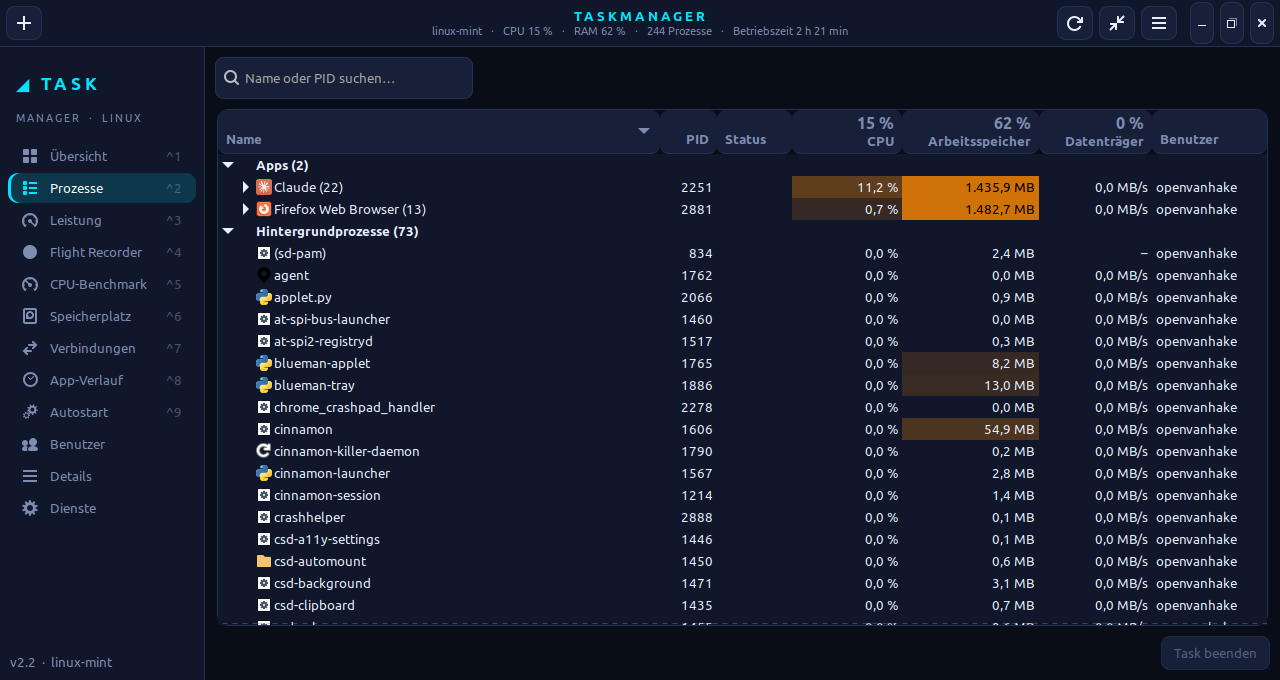
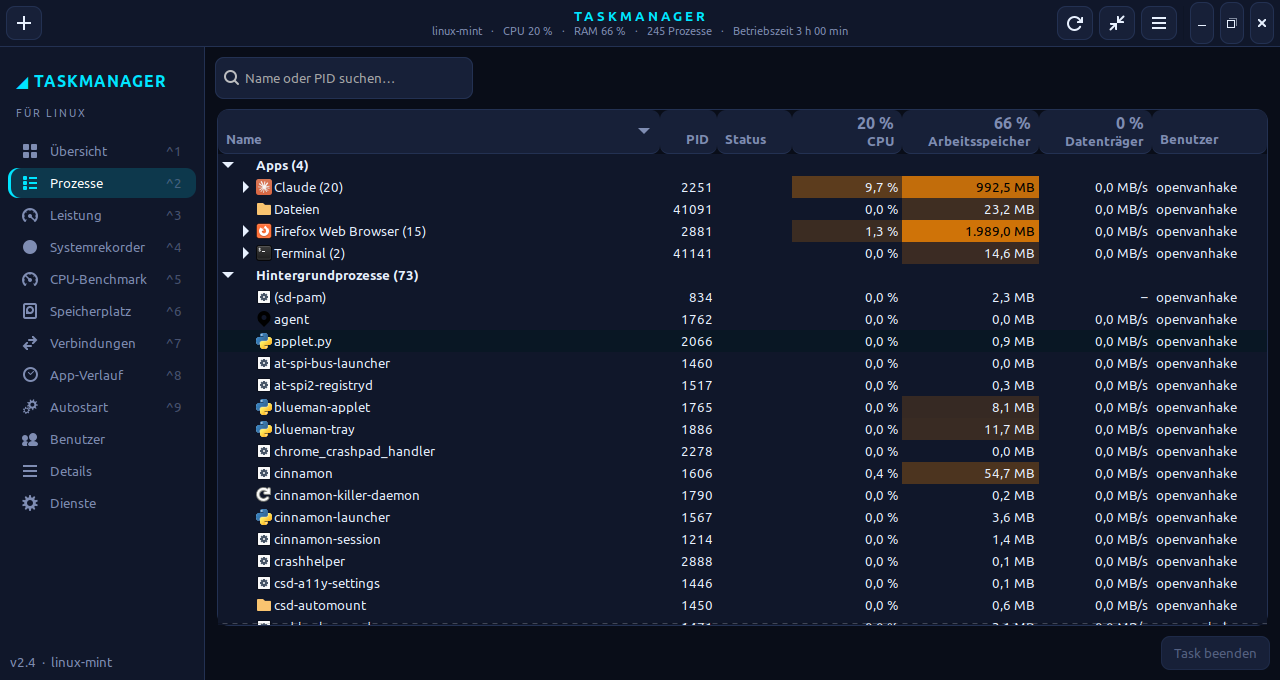
Umbenennung „Flight Recorder“ → „Systemrekorder“ (Version 2.4)
- Seite, Kopfleiste, Menü, Autostart-Eintrag, CSV-Dateiname: „Systemrekorder“ / „System Recorder“
- intern: Seite „sysrec“, Modul tabs/systemrecorder.py, Datenbank systemrecorder.db
- vorhandene flight.db wird beim ersten Start automatisch übernommen; alte Seiteneinstellung wird erkannt
- Fix: „database is locked“ beim allerersten Öffnen der Datenbank (Wiederholversuch)
- README, Anforderungen, Umsetzungsplan und alle Screenshots aktualisiert

diff --git a/taskmanager/recorder.py b/taskmanager/recorder.py
@@ -1,4 +1,4 @@
-"""Flight Recorder: zeichnet Systemzustand und Top-Prozesse in SQLite auf.
+"""Systemrekorder: zeichnet Systemzustand und Top-Prozesse in SQLite auf.
 
 - Systemwerte bei jeder Messung, Top-Prozesse (gemittelt) alle 5 Sekunden
 - erkennt Ereignisse (CPU-Spitzen, Speicher knapp, Hitze, Netzteil …)
@@ -19,7 +19,8 @@ import time
 from . import util
 from .settings import DATA_DIR
 
-DB_PATH = os.path.join(DATA_DIR, "flight.db")
+DB_PATH = os.path.join(DATA_DIR, "systemrecorder.db")
+OLD_DB_PATH = os.path.join(DATA_DIR, "flight.db")  # Name bis Version 2.3
 LOCK_PATH = os.path.join(DATA_DIR, "recorder.lock")
 PROC_EVERY = 5.0  # Sekunden zwischen Prozess-Schnappschüssen
 TOP_N = 10
@@ -46,18 +47,49 @@ SAMPLE_COLS = ["ts", "cpu", "mem", "swap", "disk_r", "disk_w", "disk_act", "net_
 RETENTIONS = [(_("1 Stunde"), 1), (_("6 Stunden"), 6), (_("24 Stunden"), 24), (_("3 Tage"), 72), (_("7 Tage"), 168)]
 
 
+def migrate_old_db():
+    """Aufzeichnung aus „flight.db“ (bis Version 2.3) übernehmen.
+
+    Nur aufrufen, solange dieser Prozess die Schreibsperre hält – dann schreibt
+    kein anderer Prozess in die alte Datei.
+    """
+    if os.path.exists(DB_PATH) or not os.path.exists(OLD_DB_PATH):
+        return
+    for suffix in ("", "-wal", "-shm"):
+        try:
+            os.rename(OLD_DB_PATH + suffix, DB_PATH + suffix)
+        except FileNotFoundError:
+            pass
+
+
+def db_path():
+    """Neue Datei, solange die alte noch nicht übernommen wurde notfalls die alte."""
+    if not os.path.exists(DB_PATH) and os.path.exists(OLD_DB_PATH):
+        return OLD_DB_PATH
+    return DB_PATH
+
+
 def connect():
     os.makedirs(DATA_DIR, exist_ok=True)
-    con = sqlite3.connect(DB_PATH, timeout=10)
-    con.execute("PRAGMA journal_mode=WAL")
-    con.execute("PRAGMA synchronous=NORMAL")
-    con.executescript(SCHEMA)
+    con = sqlite3.connect(db_path(), timeout=10)
+    # Beim ersten Öffnen (Umstellung auf WAL, Tabellen anlegen) kann ein zweiter Prozess
+    # oder Thread die Datei kurz sperren – dann kurz warten und erneut versuchen.
+    for attempt in range(50):
+        try:
+            con.execute("PRAGMA journal_mode=WAL")
+            con.execute("PRAGMA synchronous=NORMAL")
+            con.executescript(SCHEMA)
+            return con
+        except sqlite3.OperationalError as e:
+            if "locked" not in str(e) or attempt == 49:
+                raise
+            time.sleep(0.1)
     return con
 
 
 class _Writer(threading.Thread):
     def __init__(self):
-        super().__init__(daemon=True, name="flight-writer")
+        super().__init__(daemon=True, name="recorder-writer")
         self.q = queue.Queue()
 
     def run(self):
@@ -130,6 +162,7 @@ class Recorder:
         os.write(fd, f"{os.getpid()} {self.role}\n".encode())
         self._lock_fd = fd
         self.active = True
+        migrate_old_db()
         self._writer = _Writer()
         self._writer.start()
         self.event("info", "start", _("Aufzeichnung gestartet") +
@@ -373,7 +406,7 @@ class Reader:
         total = 0
         for suffix in ("", "-wal", "-shm"):
             try:
-                total += os.path.getsize(DB_PATH + suffix)
+                total += os.path.getsize(db_path() + suffix)
             except OSError:
                 pass
         return total
@@ -393,7 +426,7 @@ def run_daemon():
     settings = Settings()
     rec = Recorder(settings, role="daemon")
     if not rec.active:
-        print("Flight Recorder: Es zeichnet bereits ein anderer Prozess auf – warte im Hintergrund.")
+        print("Systemrekorder: Es zeichnet bereits ein anderer Prozess auf – warte im Hintergrund.")
     loop = GLib.MainLoop()
 
     def on_snap(snap):

diff --git a/taskmanager/tabs/systemrecorder.py b/taskmanager/tabs/systemrecorder.py
@@ -1,4 +1,4 @@
-"""Seite „Flight Recorder“: aufgezeichnete Systemdaten zurückspulen und abspielen."""
+"""Seite „Systemrekorder“: aufgezeichnete Systemdaten zurückspulen und abspielen."""
 
 from ..i18n import _
 
@@ -302,8 +302,8 @@ class Timeline(Gtk.DrawingArea):
         return True
 
 
-class FlightTab(Tab):
-    title = _("Flight Recorder")
+class SystemRecorderTab(Tab):
+    title = _("Systemrekorder")
 
     def __init__(self, app):
         super().__init__(app)
@@ -320,7 +320,7 @@ class FlightTab(Tab):
 
         # Kopfzeile
         head = Gtk.Box(spacing=12)
-        head.pack_start(styled_label(_("Flight Recorder"), "tm-h1"), False, False, 0)
+        head.pack_start(styled_label(_("Systemrekorder"), "tm-h1"), False, False, 0)
         self.rec_chip = styled_label("", "tm-chip")
         head.pack_start(self.rec_chip, False, False, 0)
         self.rec_switch = Gtk.Switch(active=self.app.settings.get("fr_enabled", True))
@@ -554,7 +554,7 @@ class FlightTab(Tab):
             tl.data = self.reader.buckets(tl.t0, tl.t1, n)
             tl.events = self.reader.events(tl.t0, tl.t1)
         except Exception as e:  # z. B. Datenbank gesperrt
-            print("Flight Recorder:", e)
+            print("Systemrekorder:", e)
             return
         tl.n = n
         tl.queue_draw()
@@ -787,7 +787,7 @@ class FlightTab(Tab):
             os.makedirs(os.path.dirname(AUTOSTART), exist_ok=True)
             exe = os.path.join(PROJECT_DIR, "taskmanager.sh")
             with open(AUTOSTART, "w") as f:
-                f.write(_('[Desktop Entry]\nType=Application\nName=Taskmanager Flight Recorder\nComment=Zeichnet Systemdaten für den Flight Recorder im Hintergrund auf\nExec="{0}" --recorder\nIcon=media-record\nTerminal=false\nNoDisplay=false\nX-GNOME-Autostart-enabled=true\nX-GNOME-Autostart-Delay=10\n').format(exe))
+                f.write(_('[Desktop Entry]\nType=Application\nName=Taskmanager Systemrekorder\nComment=Zeichnet Systemdaten für den Systemrekorder im Hintergrund auf\nExec="{0}" --recorder\nIcon=media-record\nTerminal=false\nNoDisplay=false\nX-GNOME-Autostart-enabled=true\nX-GNOME-Autostart-Delay=10\n').format(exe))
             # gleich starten – übernimmt die Aufzeichnung, sobald dieses Fenster geschlossen wird
             subprocess.Popen([sys.executable, "-m", "taskmanager", "--recorder"], cwd=PROJECT_DIR,
                              stdout=subprocess.DEVNULL, stderr=subprocess.DEVNULL, start_new_session=True)
@@ -822,7 +822,7 @@ class FlightTab(Tab):
     def _export(self):
         fc = Gtk.FileChooserNative.new(_("Zeitraum als CSV exportieren"), self.app.window,
                                        Gtk.FileChooserAction.SAVE, _("Exportieren"), None)
-        fc.set_current_name(time.strftime("flight-recorder-%Y%m%d-%H%M.csv"))
+        fc.set_current_name(time.strftime("systemrekorder-%Y%m%d-%H%M.csv"))
         fc.set_do_overwrite_confirmation(True)
         if fc.run() == Gtk.ResponseType.ACCEPT:
             try:

diff --git a/taskmanager/app.py b/taskmanager/app.py
@@ -17,7 +17,7 @@ from .tabs.connections import ConnectionsTab
 from .recorder import Recorder
 from .tabs.benchmark import BenchmarkTab
 from .tabs.details import DetailsTab
-from .tabs.flight import FlightTab
+from .tabs.systemrecorder import SystemRecorderTab
 from .tabs.overview import OverviewTab
 from .tabs.performance import PerformanceTab
 from .tabs.processes import ProcessesTab
@@ -29,7 +29,7 @@ from .widgets import styled_label
 
 # per Umgebungsvariable änderbar (z. B. für Tests neben einer laufenden Instanz)
 APP_ID = os.environ.get("TASKMANAGER_APP_ID", "de.local.LinuxTaskmanager")
-VERSION = "2.3"
+VERSION = "2.4"
 SPEEDS = [(_("Hoch"), 0.5), (_("Normal"), 1.0), (_("Niedrig"), 4.0)]
 
 # (Name, Klasse, Titel, Symbol)
@@ -37,7 +37,7 @@ PAGES = [
     ("overview", OverviewTab, _("Übersicht"), "view-grid-symbolic"),
     ("processes", ProcessesTab, _("Prozesse"), "view-list-symbolic"),
     ("performance", PerformanceTab, _("Leistung"), "power-profile-performance-symbolic"),
-    ("flight", FlightTab, _("Flight Recorder"), "media-record-symbolic"),
+    ("sysrec", SystemRecorderTab, _("Systemrekorder"), "media-record-symbolic"),
     ("benchmark", BenchmarkTab, _("CPU-Benchmark"), "speedometer-symbolic"),
     ("storage", StorageTab, _("Speicherplatz"), "drive-harddisk-symbolic"),
     ("connections", ConnectionsTab, _("Verbindungen"), "network-transmit-receive-symbolic"),
@@ -127,8 +127,8 @@ class TaskManager(Gtk.Application):
         self.rec_chip = Gtk.Button(label=_("● REC"))
         self.rec_chip.set_relief(Gtk.ReliefStyle.NONE)
         self.rec_chip.get_style_context().add_class("tm-rec")
-        self.rec_chip.set_tooltip_text(_("Flight Recorder zeichnet auf – klicken zum Öffnen"))
-        self.rec_chip.connect("clicked", lambda *_xx: self.show_page("flight"))
+        self.rec_chip.set_tooltip_text(_("Systemrekorder zeichnet auf – klicken zum Öffnen"))
+        self.rec_chip.connect("clicked", lambda *_xx: self.show_page("sysrec"))
         self.rec_chip.set_no_show_all(True)
         hb.pack_start(self.rec_chip)
         self.paused_chip = styled_label(_("⏸ ANGEHALTEN"), "tm-chip")
@@ -192,7 +192,8 @@ class TaskManager(Gtk.Application):
         win.show_all()
 
         self.current_name = None
-        start = s["page"] if s["page"] in self.tabs else "overview"
+        page = {"flight": "sysrec"}.get(s["page"], s["page"])  # alter Seitenname
+        start = page if page in self.tabs else "overview"
         self.nav.select_row(self.nav_rows[start])
         self._update_paused()
         theme.on_change(self._on_theme_changed)

diff --git a/taskmanager/locale_en.py b/taskmanager/locale_en.py
@@ -74,7 +74,7 @@ EN = {
     "Übersicht": "Overview",
     "Prozesse": "Processes",
     "Leistung": "Performance",
-    "Flight Recorder": "Flight Recorder",
+    "Systemrekorder": "System Recorder",
     "CPU-Benchmark": "CPU Benchmark",
     "Speicherplatz": "Disk Space",
     "Verbindungen": "Connections",
@@ -96,7 +96,7 @@ EN = {
     "Jetzt aktualisieren (F5)": "Refresh now (F5)",
     "Neuen Task ausführen (Strg+N)": "Run new task (Ctrl+N)",
     "● REC": "● REC",
-    "Flight Recorder zeichnet auf – klicken zum Öffnen": "Flight Recorder is recording – click to open",
+    "Systemrekorder zeichnet auf – klicken zum Öffnen": "System Recorder is recording – click to open",
     "⏸ ANGEHALTEN": "⏸ PAUSED",
     "_Neuen Task ausführen…": "_Run new task…",
     "_Mini-Modus": "_Mini mode",
@@ -357,7 +357,7 @@ EN = {
     "Virtuell": "Virtual",
     "Grafikkarte ({0})": "Graphics card ({0})",
 
-    # ------------------------------------------------------------ Flight Recorder
+    # ------------------------------------------------------------ Systemrekorder
     "1 Stunde": "1 hour",
     "6 Stunden": "6 hours",
     "24 Stunden": "24 hours",

diff --git a/taskmanager/__main__.py b/taskmanager/__main__.py
@@ -15,7 +15,7 @@ if __name__ == "__main__":
     i18n.setup(Settings().get("language", "auto"))
 
     if "--recorder" in sys.argv:
-        # Kopfloser Flight-Recorder-Dienst ohne Fenster
+        # Kopfloser Systemrekorder-Dienst ohne Fenster
         from .recorder import run_daemon
         sys.exit(run_daemon())
 

diff --git a/README.md b/README.md
@@ -2,10 +2,10 @@
 
 **Ein moderner Taskmanager für Linux Mint** – inspiriert vom Windows-Taskmanager und von
 [TMOG](https://www.omgubuntu.co.uk/2026/09/tmog-task-manager-linux-beta): Neon-Design, Dashboard,
-Flight Recorder zum Zurückspulen, CPU-Benchmark, Festplattenanalyse und Mini-Modus.
+Systemrekorder zum Zurückspulen, CPU-Benchmark, Festplattenanalyse und Mini-Modus.
 **Deutsch und Englisch** (umschaltbar), ohne zusätzliche Pakete lauffähig.
 
-> 🇬🇧 *English:* A modern task manager for Linux Mint with dashboard, flight recorder, CPU benchmark and
+> 🇬🇧 *English:* A modern task manager for Linux Mint with dashboard, system recorder, CPU benchmark and
 > disk analysis. Switch the language via **☰ → Sprache / Language → English**.
 
 ![Übersicht](docs/screenshots/uebersicht.png)
@@ -19,7 +19,7 @@ Flight Recorder zum Zurückspulen, CPU-Benchmark, Festplattenanalyse und Mini-Mo
 - [Voraussetzungen](#voraussetzungen)
 - [Installation](#installation)
 - [Bedienung](#bedienung)
-- [Flight Recorder](#flight-recorder)
+- [Systemrekorder](#systemrekorder)
 - [CPU-Benchmark](#cpu-benchmark)
 - [Speicherplatz analysieren](#speicherplatz-analysieren)
 - [Tastenkürzel](#tastenkürzel)
@@ -38,7 +38,7 @@ Flight Recorder zum Zurückspulen, CPU-Benchmark, Festplattenanalyse und Mini-Mo
 | **Übersicht** | Dashboard mit Ringanzeigen für CPU, RAM, GPU und Akku, Last je Kern, Netzwerk- und Datenträger-Graph, Festplattenbelegung, Top-Prozesse und Systeminfos |
 | **Prozesse** | Apps (mit Fenster, aufklappbar inkl. Kindprozessen), Hintergrund- und Systemprozesse; CPU, Arbeitsspeicher, Datenträger mit Farbhervorhebung; Suche; Task beenden |
 | **Leistung** | Verlaufsgraphen für CPU (gesamt oder je logischem Prozessor), Arbeitsspeicher, jeden Datenträger, jeden Netzwerkadapter und die GPU – mit allen Kennzahlen |
-| **Flight Recorder** | Zeichnet laufend auf und lässt dich zurückspulen: Zeitleiste mit Ereignissen (CPU-Spitzen, RAM knapp, Hitze …), Abspielen, Zustand und Top-Prozesse zu jedem Zeitpunkt |
+| **Systemrekorder** | Zeichnet laufend auf und lässt dich zurückspulen: Zeitleiste mit Ereignissen (CPU-Spitzen, RAM knapp, Hitze …), Abspielen, Zustand und Top-Prozesse zu jedem Zeitpunkt |
 | **CPU-Benchmark** | Single- und Multi-Core-Punktwerte aus 5 Testlasten, Live-Temperatur und -Takt, Drosselungserkennung, Belastungstest, Ergebnisverlauf |
 | **Speicherplatz** | Belegung aller Laufwerke; Ordneranalyse als Treemap zum Hineinklicken |
 | **Verbindungen** | Offene Netzwerkverbindungen je Prozess |
@@ -63,10 +63,10 @@ Apps werden wie unter Windows mit ihren Unterprozessen gruppiert; hohe Werte sin
 ### Leistung
 ![Leistung](docs/screenshots/leistung.png)
 
-### Flight Recorder
+### Systemrekorder
 Zurückspulen wie bei einem Video – hier ist der Abspielkopf auf einen früheren Zeitpunkt gesetzt.
 
-![Flight Recorder](docs/screenshots/flight-recorder.png)
+![Systemrekorder](docs/screenshots/systemrekorder.png)
 
 ### CPU-Benchmark
 ![CPU-Benchmark](docs/screenshots/cpu-benchmark.png)
@@ -151,12 +151,12 @@ Mit Tastenkürzel **Strg+Umschalt+Esc** (wie unter Windows, nur Cinnamon):
 
 ---
 
-## Flight Recorder
+## Systemrekorder
 
-Der Flight Recorder speichert laufend den Systemzustand, damit du **nachträglich** sehen kannst,
+Der Systemrekorder speichert laufend den Systemzustand, damit du **nachträglich** sehen kannst,
 was passiert ist – z. B. warum der Lüfter vorhin hochgedreht hat.
 
-1. Seite **Flight Recorder** öffnen – „● REC“ zeigt, dass aufgezeichnet wird (Schalter „Aufzeichnen“ oben rechts).
+1. Seite **Systemrekorder** öffnen – „● REC“ zeigt, dass aufgezeichnet wird (Schalter „Aufzeichnen“ oben rechts).
 2. Zeitraum wählen (**5 min … 24 h, Alles**), mit dem **Mausrad zoomen**, mit **Umschalt+Mausrad verschieben**.
 3. In die Zeitleiste **klicken oder ziehen** → unten erscheinen alle Werte und die **Top-Prozesse zu genau diesem Zeitpunkt**.
 4. **◆ Ereignisse** (CPU-Spitze mit Verursacher, RAM knapp, Hitze, Netzteil getrennt, Laufwerk fast voll …)
@@ -222,7 +222,7 @@ Gezählt wird der tatsächlich belegte Platz; andere Partitionen/Netzlaufwerke w
 | Datei | Inhalt |
 |-------|--------|
 | `~/.config/linux-taskmanager/settings.json` | Einstellungen |
-| `~/.local/share/linux-taskmanager/flight.db` | Flight-Recorder-Aufzeichnung |
+| `~/.local/share/linux-taskmanager/systemrecorder.db` | Aufzeichnung des Systemrekorders |
 | `~/.local/share/linux-taskmanager/benchmarks.json` | Benchmark-Ergebnisse |
 | `~/.local/share/linux-taskmanager/app_history.json` | App-Verlauf |
 
@@ -253,7 +253,7 @@ ganz löschen mit:
 rm -r ~/.config/linux-taskmanager ~/.local/share/linux-taskmanager
 ```
 
-Falls der Flight-Recorder-Hintergrunddienst aktiv war: vorher in der App den Haken
+Falls der Hintergrunddienst des Systemrekorders aktiv war: vorher in der App den Haken
 „Im Hintergrund aufzeichnen“ entfernen.
 
 ---
@@ -264,7 +264,7 @@ Falls der Flight-Recorder-Hintergrunddienst aktiv war: vorher in der App den Hak
 taskmanager/
 ├── app.py          Hauptfenster, Navigation, Menü
 ├── sampler.py      Messung in Hintergrund-Thread (psutil, /proc, /sys)
-├── recorder.py     Flight Recorder (SQLite, Ereigniserkennung, Hintergrunddienst)
+├── recorder.py     Systemrekorder (SQLite, Ereigniserkennung, Hintergrunddienst)
 ├── benchmark.py    CPU-Benchmark und Belastungstest (multiprocessing)
 ├── theme.py        Farbschemata und GTK-CSS
 ├── i18n.py         Sprachumschaltung, Funktion _()

diff --git a/UMSETZUNGSPLAN.md b/UMSETZUNGSPLAN.md
@@ -91,14 +91,14 @@ Dadurch bleiben Auswahl, Scrollposition und aufgeklappte Apps erhalten.
 
 Gemessene Eigenlast (Übersicht sichtbar, Normal): ca. 2 % Gesamt-CPU, 69 MB RAM.
 
-# Version 2.1 – Flight Recorder
+# Version 2.1 – Systemrekorder
 
 | Baustein | Datei | Umsetzung |
 |----------|-------|-----------|
 | Aufzeichnung | `recorder.py` → `Recorder` | erhält jeden Snapshot, schreibt über eine Queue in einen eigenen Writer-Thread (Commit alle 2 s, SQLite im WAL-Modus); Prozesse werden 5 s gemittelt; Ereigniserkennung mit Hysterese (einmal auslösen, erst nach Entspannung erneut) |
 | Sperre | `recorder.lock` + `flock` | genau ein Schreiber; andere Prozesse versuchen alle 30 s zu übernehmen (z. B. Dienst übernimmt, wenn das Fenster geschlossen wird) |
 | Lesen | `Reader` | Zeitraum wird in Abschnitte (≈ Pixelbreite/3) gruppiert, je Abschnitt der **Spitzenwert** (`MAX`), damit kurze Spitzen sichtbar bleiben; Lücken bleiben leer |
-| Oberfläche | `tabs/flight.py` | `Timeline`-Widget (Cairo), Abspiel-Timer (100 ms), Zustandskacheln, Prozess- und Ereignisliste |
+| Oberfläche | `tabs/systemrecorder.py` | `Timeline`-Widget (Cairo), Abspiel-Timer (100 ms), Zustandskacheln, Prozess- und Ereignisliste |
 | Dienst | `python3 -m taskmanager --recorder` | kopflos mit `GLib.MainLoop`, Messintervall 2 s, sauberes Beenden bei SIGTERM/SIGINT; Autostart-Datei `~/.config/autostart/linux-taskmanager-recorder.desktop` |
 
 Datenmenge: ca. 100 Byte je Messwert + 30 Prozesszeilen je 5 s → rund 15–25 MB pro Tag bei 1-s-Messung.
@@ -126,3 +126,11 @@ Ergebnis auf dem Entwicklungsrechner (Schnell): Single-Core 999, Multi-Core 1.94
 | Start | `__main__.py` setzt die Sprache **vor** dem Import der übrigen Module, weil viele Texte beim Import ausgewertet werden |
 | Wechsel | Einstellung speichern, sauber beenden, `os.execv` startet das Programm im selben Prozess neu |
 | Stolperfallen | `_` war vorher als Platzhaltervariable benutzt (`for x, _ in …`) und überdeckte die Übersetzungsfunktion → 97 Stellen umbenannt; `.desktop`-Namen werden über `X-GNOME-Gettext-Domain` immer in die Systemsprache übersetzt → im Englischen wird der Originalwert gelesen |
+
+# Version 2.4 – Umbenennung in „Systemrekorder“
+
+Die Aufzeichnungsfunktion heißt jetzt **Systemrekorder** (englisch *System Recorder*), um Verwechslungen mit
+der gleichnamigen Funktion anderer Programme zu vermeiden. Intern: Seite `sysrec`, Modul
+`tabs/systemrecorder.py`, Datenbank `systemrecorder.db`. Eine vorhandene `flight.db` wird beim ersten Start
+automatisch übernommen (sobald der Prozess die Schreibsperre hält); die alte Seiteneinstellung „flight“
+wird weiter erkannt.

diff --git a/ANFORDERUNGEN.md b/ANFORDERUNGEN.md
@@ -134,7 +134,7 @@ modernes Neon-Design, Startseite mit Kurzübersicht, Festplattenbelegung.
 | T10 | 60-Hz-Aktualisierung wie TMOG | K | ❌ in Python zu teuer; Ringanzeigen werden aber flüssig animiert |
 | T11 | CPU-Benchmark | K | ✅ (Version 2.2, siehe unten) |
 
-## Flight Recorder (Version 2.1)
+## Systemrekorder (Version 2.1)
 
 | ID | Anforderung | Prio | Status |
 |----|-------------|------|--------|
@@ -145,7 +145,7 @@ modernes Neon-Design, Startseite mit Kurzübersicht, Festplattenbelegung.
 | F5 | Zeiträume 5 min / 15 min / 1 h / 6 h / 24 h / Alles, LIVE-Modus | M | ✅ |
 | F6 | Abspielen mit 1×/10×/60×/300×, Schritt vor/zurück, Sprung zum vorigen/nächsten Ereignis | S | ✅ |
 | F7 | Zustand zum gewählten Zeitpunkt: alle Werte + Prozessliste + Ereignisliste (anklickbar) | M | ✅ |
-| F8 | Speicherung in SQLite (`~/.local/share/linux-taskmanager/flight.db`), Aufbewahrung 1 h – 7 Tage, Löschen, CSV-Export | S | ✅ |
+| F8 | Speicherung in SQLite (`~/.local/share/linux-taskmanager/systemrecorder.db`), Aufbewahrung 1 h – 7 Tage, Löschen, CSV-Export | S | ✅ |
 | F9 | Hintergrunddienst (`--recorder`) für Aufzeichnung ohne offenes Fenster, per Autostart zuschaltbar; nur ein Prozess schreibt (Dateisperre), die Oberfläche liest dann mit | S | ✅ |
 | F10 | Aufzeichnung pausierbar; REC-Anzeige in der Kopfleiste | K | ✅ |
 
@@ -160,7 +160,7 @@ modernes Neon-Design, Startseite mit Kurzübersicht, Festplattenbelegung.
 | B5 | Live-Anzeige CPU-Auslastung, Temperatur, Takt; Max.-Temperatur, Takt unter Last, Drosselungserkennung, Stromversorgung | S | ✅ |
 | B6 | Belastungstest: Volllast auf allen Threads bis zum Stopp (Kühlung/Stabilität) | S | ✅ |
 | B7 | Ergebnisverlauf (gespeichert), Vergleich mit Bestwert, Löschen einzelner Läufe | S | ✅ |
-| B8 | Ereignisse im Flight Recorder (Benchmark/Belastungstest gestartet, Ergebnis) | K | ✅ |
+| B8 | Ereignisse im Systemrekorder (Benchmark/Belastungstest gestartet, Ergebnis) | K | ✅ |
 | B9 | Oberfläche bleibt während des Tests bedienbar (Arbeitsprozesse mit Nice 5) | M | ✅ |
 
 ## Sprache (Version 2.3)
